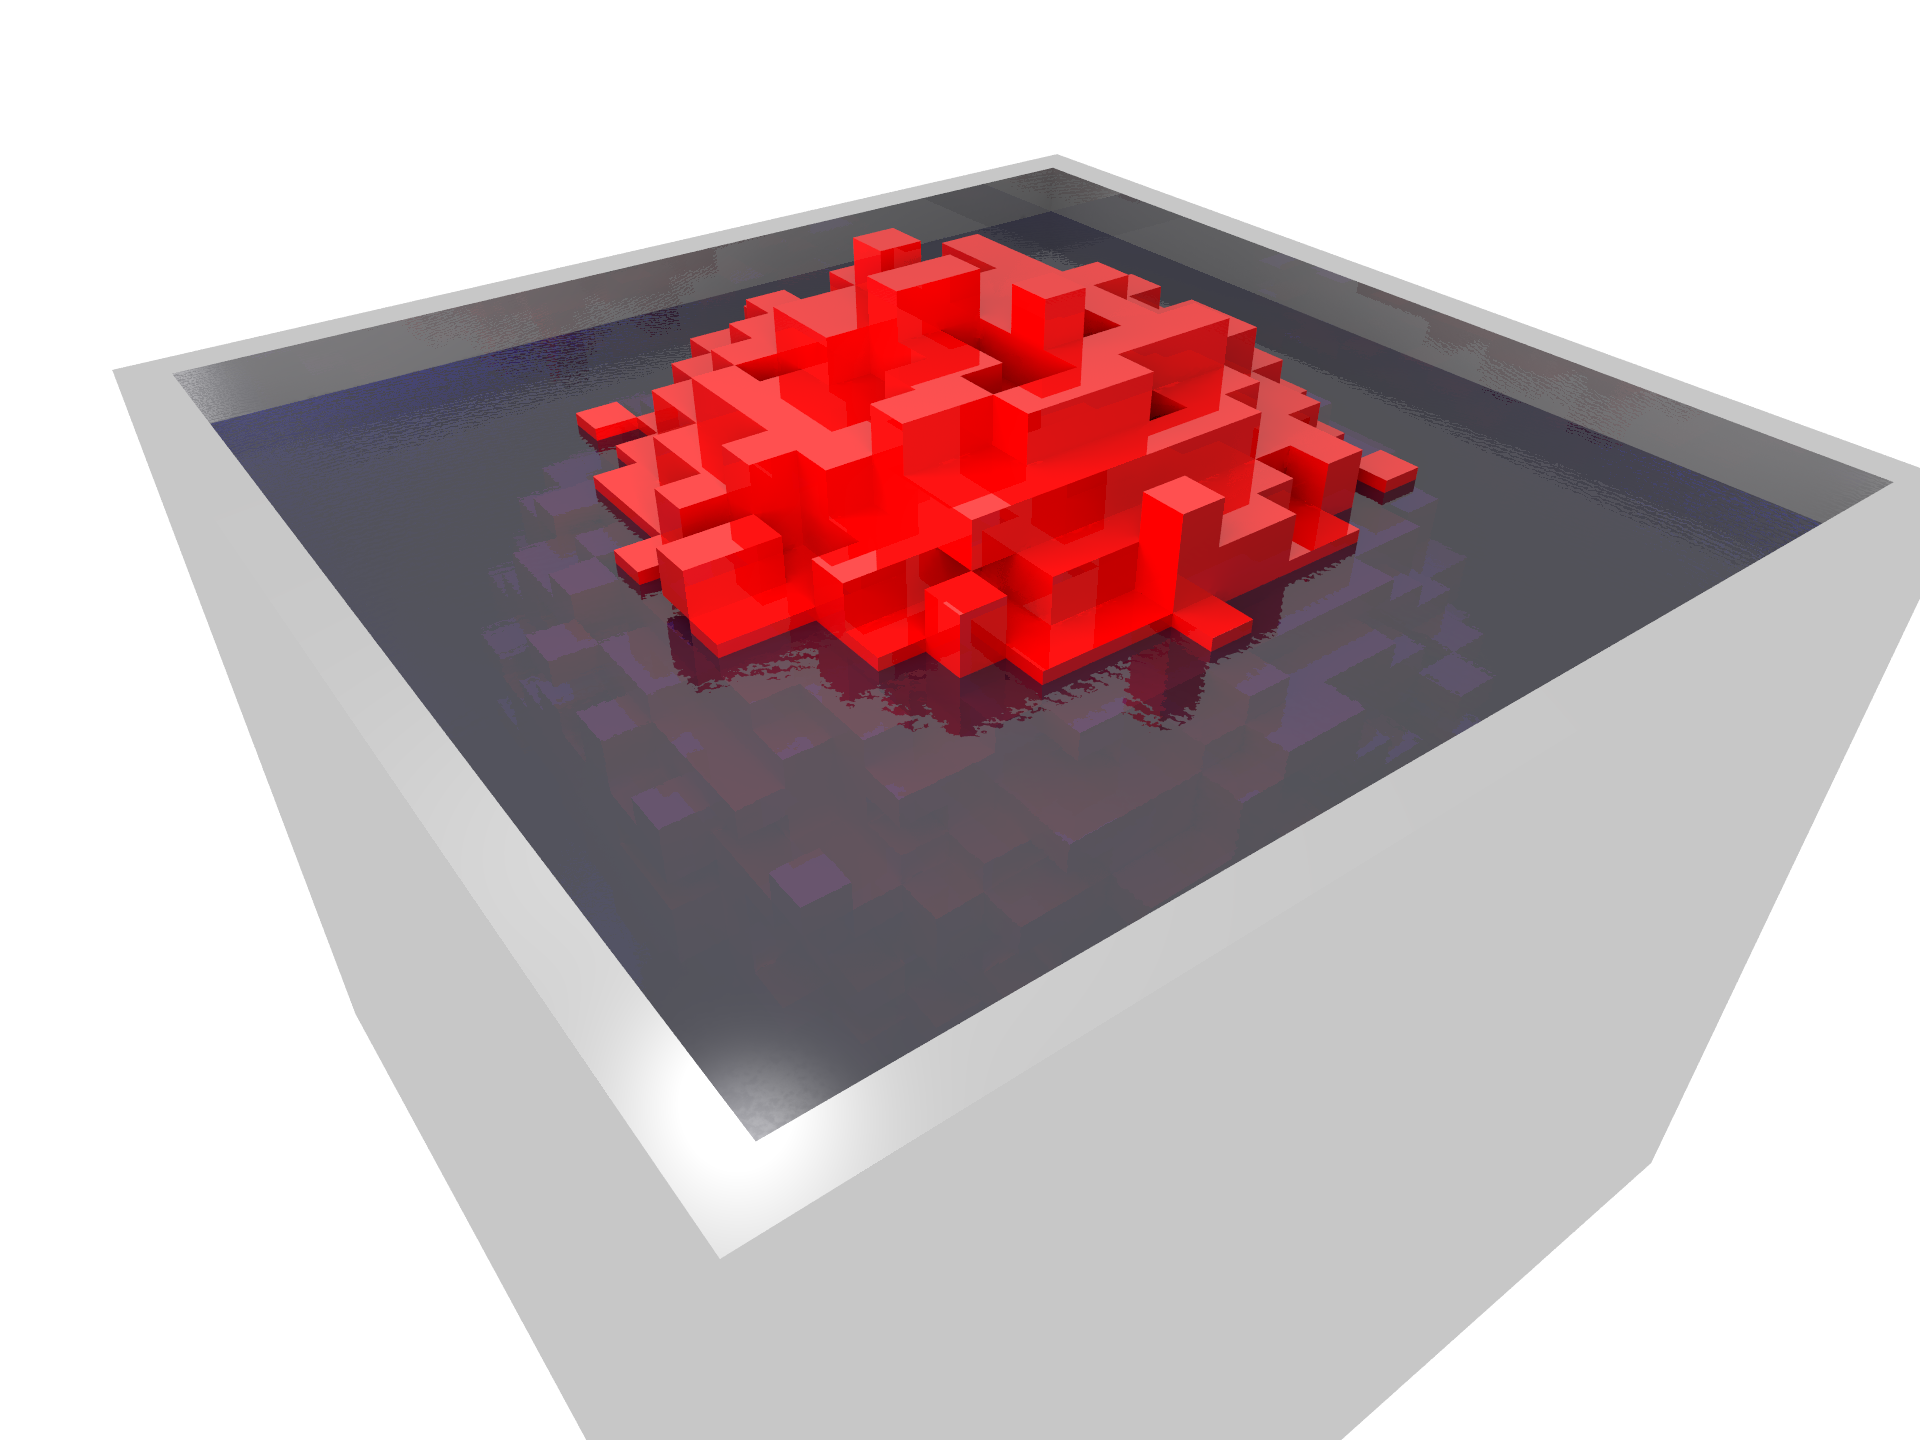
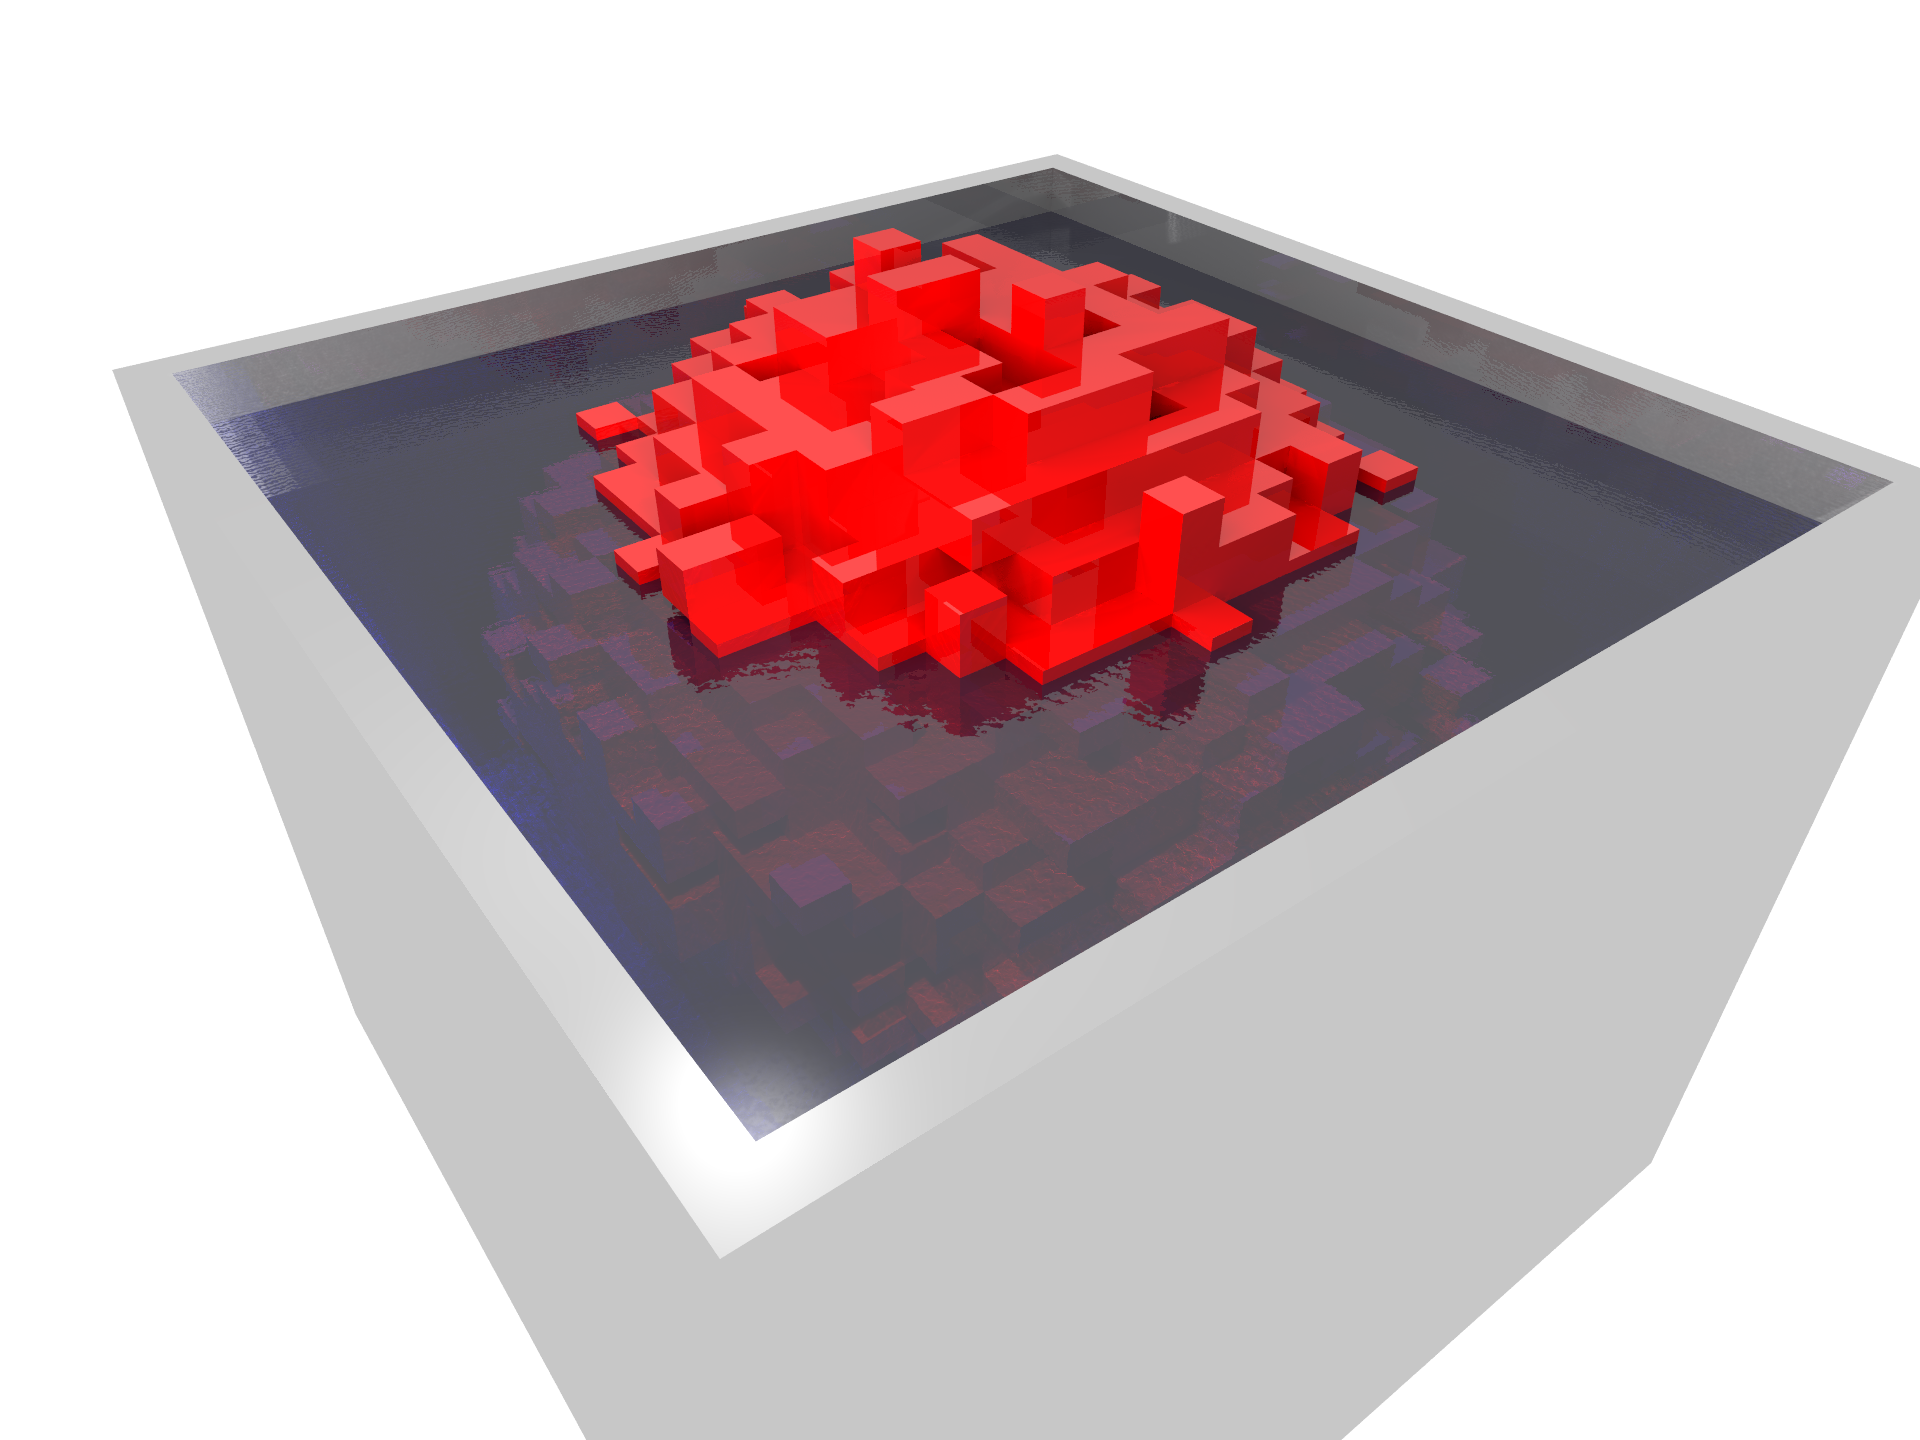
Day 18: Updated povray render, some small code optimizations

diff --git a/go/problems/day18.go b/go/problems/day18.go
@@ -16,6 +16,15 @@ type Point18 struct {
 	z int64
 }
 
+var dirs = []Point18{
+	{x: 1, y: 0, z: 0},
+	{x: -1, y: 0, z: 0},
+	{x: 0, y: 1, z: 0},
+	{x: 0, y: -1, z: 0},
+	{x: 0, y: 0, z: 1},
+	{x: 0, y: 0, z: -1},
+}
+
 type material uint
 
 const (
@@ -99,14 +108,6 @@ func (d *Day18) Setup() {
 
 func (d *Day18) SolveProblem1() {
 	var surfaces uint64 = 0
-	var dirs = []Point18{
-		{x: 1, y: 0, z: 0},
-		{x: -1, y: 0, z: 0},
-		{x: 0, y: 1, z: 0},
-		{x: 0, y: -1, z: 0},
-		{x: 0, y: 0, z: 1},
-		{x: 0, y: 0, z: -1},
-	}
 	for p := range d.cube {
 		for _, dt := range dirs {
 			if d.cube[Point18{
@@ -137,14 +138,6 @@ func (d *Day18) SolveProblem2() {
 
 	// count surfaces that touches water:
 	var surfaces uint64 = 0
-	var dirs = []Point18{
-		{x: 1, y: 0, z: 0},
-		{x: -1, y: 0, z: 0},
-		{x: 0, y: 1, z: 0},
-		{x: 0, y: -1, z: 0},
-		{x: 0, y: 0, z: 1},
-		{x: 0, y: 0, z: -1},
-	}
 	for p := range d.cube {
 		for _, dt := range dirs {
 			if d.cube[p] == M_Rock && d.cube[Point18{
@@ -169,15 +162,11 @@ func (d *Day18) Solution2() string {
 }
 
 func (d *Day18) fill(p *Point18) {
-	var dirs = []Point18{
-		{x: 1, y: 0, z: 0},
-		{x: -1, y: 0, z: 0},
-		{x: 0, y: 1, z: 0},
-		{x: 0, y: -1, z: 0},
-		{x: 0, y: 0, z: 1},
-		{x: 0, y: 0, z: -1},
-	}
-
+	// Flood fill algorithm using a Stack:
+	// Start with the given block p, mark it as "water",
+	// find its non-defined neighbours, put them in a queue / stack
+	// Repeat until the queue is empty.
+	// At the end, cube around the filled interior is flood-filled.
 	var todo = list.New()
 	todo.PushBack(p)
 	for act_i := todo.Front(); act_i != nil; {
